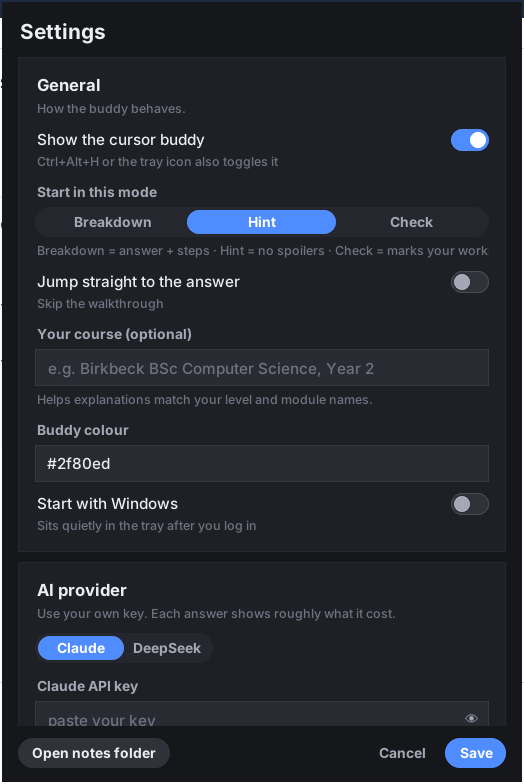
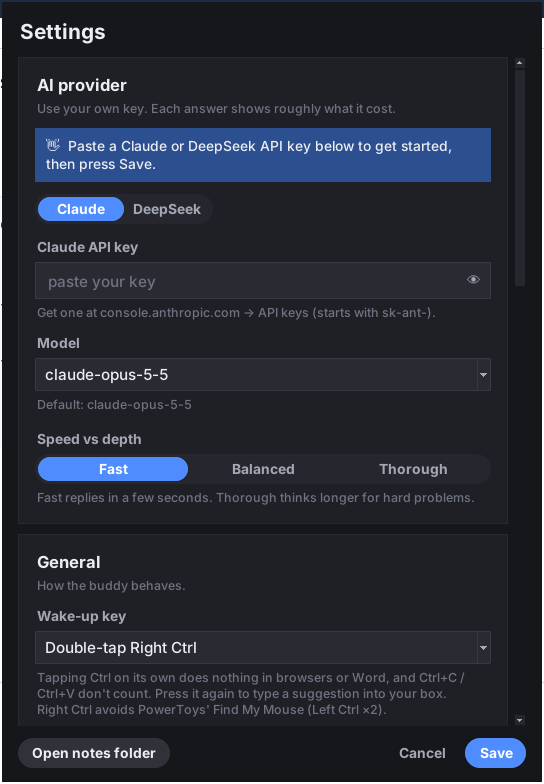
v0.3.1: wake with double-tap RIGHT Ctrl by default (Left Ctrl x2 is PowerToys Find My Mouse)
Double-tapping Left Ctrl triggered PowerToys' Find My Mouse spotlight, which
would also land in the buddy's screenshot. Default is now Right Ctrl x2;
'either Ctrl x2', 'Ctrl x3' and 'Right Ctrl x1' remain as options (Settings
dropdown + setup menu). Self-test checks Left Ctrl x2 does NOT wake it.

Also: setting hints wrap instead of being clipped, and PillButton measures
its text via its parent (it crashed if it was the first widget drawn with
its font).

Claude-Session: https://claude.ai/code/session_019WcccRRXX42dyH1bXt8cF2

diff --git a/moodleclicky/triggers.py b/moodleclicky/triggers.py
@@ -1,4 +1,6 @@
-"""Wake-up triggers that don't clash with anything: double-tap Ctrl (or tap Right Ctrl on its own).
+"""Wake-up triggers that don't clash with anything: double-tap Right Ctrl (default), either Ctrl, or one tap.
+
+Right Ctrl is the default because double-tapping *Left* Ctrl is PowerToys "Find My Mouse"'s shortcut.
 
 A Ctrl *tap* only counts when Ctrl is pressed and released on its own - so Ctrl+C, Ctrl+V, Ctrl+click etc.
 never trigger it. Two taps within `window` seconds = trigger. Pure logic here (DoubleTap) so it's unit
@@ -10,9 +12,11 @@ from __future__ import annotations
 import time
 from collections.abc import Callable
 
-TRIGGERS = ("double_ctrl", "right_ctrl", "hotkey")
+TRIGGERS = ("double_rctrl", "double_ctrl", "triple_ctrl", "right_ctrl", "hotkey")
 TRIGGER_LABELS = {
-    "double_ctrl": "Double-tap Ctrl",
+    "double_rctrl": "Double-tap Right Ctrl",
+    "double_ctrl": "Double-tap either Ctrl",
+    "triple_ctrl": "Triple-tap either Ctrl",
     "right_ctrl": "Tap Right Ctrl on its own",
     "hotkey": "Ctrl + Alt + Space (classic hotkey)",
 }
@@ -47,7 +51,8 @@ class DoubleTap:
         if not clean or self.paused:
             self._taps.clear()
             return
-        self._taps = [t for t in self._taps if now - t <= self.window] + [now]
+        span = self.window * max(1, self.taps_needed - 1)  # each gap may be up to `window`
+        self._taps = [t for t in self._taps if now - t <= span] + [now]
         if len(self._taps) >= self.taps_needed:
             self._taps.clear()
             self.fire()
@@ -59,15 +64,16 @@ class DoubleTap:
 
 
 class KeyTrigger:
-    """Global listener: mode 'double_ctrl' (either Ctrl, twice) or 'right_ctrl' (Right Ctrl, once)."""
+    """Global listener: 'double_rctrl' (Right Ctrl twice), 'double_ctrl' (either Ctrl twice) or
+    'right_ctrl' (Right Ctrl once)."""
 
     def __init__(self, mode: str, fire: Callable[[], None]):
         self.mode = mode
-        self.tap = DoubleTap(fire, taps=1 if mode == "right_ctrl" else 2)
+        self.tap = DoubleTap(fire, taps={"right_ctrl": 1, "triple_ctrl": 3}.get(mode, 2))
         self._listener = None
 
     def _is_watched(self, key, keyboard) -> bool:
-        if self.mode == "right_ctrl":
+        if self.mode in ("right_ctrl", "double_rctrl"):
             return key == keyboard.Key.ctrl_r
         return key in (keyboard.Key.ctrl, keyboard.Key.ctrl_l, keyboard.Key.ctrl_r)
 

diff --git a/moodleclicky/settings_ui.py b/moodleclicky/settings_ui.py
@@ -17,7 +17,7 @@ from moodleclicky.config import (
     get_api_key,
     set_api_key,
 )
-from moodleclicky.triggers import TRIGGERS
+from moodleclicky.triggers import TRIGGER_LABELS, TRIGGERS
 
 KEY_HINTS = {
     "anthropic": "Get one at console.anthropic.com → API keys (starts with sk-ant-).",
@@ -85,12 +85,12 @@ class SettingsWindow:
         # -- General
         g = t.Card(body, "General", "How the buddy behaves.")
         g.pack(fill="x", pady=(0, 10))
-        self.trigger = tk.StringVar(w, s.trigger)
-        t.form_row(g.body, "Wake-up key", lambda p: t.Segmented(
-            p, [("double_ctrl", "Double-tap Ctrl"), ("right_ctrl", "Right Ctrl"), ("hotkey", "Ctrl+Alt+Space")],
-            variable=self.trigger),
-            hint="Tapping Ctrl on its own does nothing in browsers or Word, so it never gets in the way. "
-                 "Ctrl+C / Ctrl+V don't count. Press it again to type a suggestion into your box.")
+        self.trigger = tk.StringVar(w, TRIGGER_LABELS.get(s.trigger, TRIGGER_LABELS["double_rctrl"]))
+        t.form_row(g.body, "Wake-up key", lambda p: t.combobox(
+            p, self.trigger, [TRIGGER_LABELS[k] for k in TRIGGERS], readonly=True),
+            hint="Tapping Ctrl on its own does nothing in browsers or Word, and Ctrl+C / Ctrl+V don't count. "
+                 "Press it again to type a suggestion into your box. Right Ctrl avoids PowerToys' Find My Mouse "
+                 "(Left Ctrl ×2).")
         self.instant = tk.BooleanVar(w, s.instant)
         t.Toggle(g.body, self.instant, "Look straight away", "Off = ask \"what are you stuck on?\" first").pack(
             fill="x", pady=(0, 10))
@@ -162,7 +162,7 @@ class SettingsWindow:
     def _save(self) -> None:
         s = self.settings
         s.buddy_visible = self.visible.get()
-        s.trigger = self.trigger.get() if self.trigger.get() in TRIGGERS else "double_ctrl"
+        s.trigger = {v: k for k, v in TRIGGER_LABELS.items()}.get(self.trigger.get(), "double_rctrl")
         s.instant = self.instant.get()
         label_to_mode = {v: k for k, v in MODE_LABELS.items()}
         s.mode = label_to_mode.get(self.mode.get(), "breakdown")

diff --git a/tests/test_core.py b/tests/test_core.py
@@ -321,3 +321,32 @@ def test_streaming_partials_and_type_text():
     assert seen and seen[0] == {"title": S["title"]}  # title arrives first, before the rest
     assert seen[-1]["type_text"] == "O(n^2)"
     assert len(seen) == len({json.dumps(x, sort_keys=True) for x in seen})  # only sent when something changed
+
+
+def test_trigger_modes_watch_the_right_keys():
+    from types import SimpleNamespace
+
+    from moodleclicky.triggers import KeyTrigger
+
+    kb = SimpleNamespace(Key=SimpleNamespace(ctrl="ctrl", ctrl_l="ctrl_l", ctrl_r="ctrl_r"))
+    rc = KeyTrigger("double_rctrl", lambda: None)
+    assert rc.tap.taps_needed == 2 and rc._is_watched("ctrl_r", kb)
+    assert not rc._is_watched("ctrl_l", kb) and not rc._is_watched("ctrl", kb)  # PowerToys Find My Mouse key
+    any_ctrl = KeyTrigger("double_ctrl", lambda: None)
+    assert all(any_ctrl._is_watched(k, kb) for k in ("ctrl", "ctrl_l", "ctrl_r"))
+    assert KeyTrigger("right_ctrl", lambda: None).tap.taps_needed == 1
+    assert KeyTrigger("triple_ctrl", lambda: None).tap.taps_needed == 3
+    assert Settings().trigger == "double_rctrl"
+
+
+def test_triple_tap():
+    from moodleclicky.triggers import DoubleTap
+
+    fired = []
+    clock = Clock()
+    d = DoubleTap(lambda: fired.append(1), taps=3, clock=clock)
+    tap(d, clock)
+    tap(d, clock)
+    assert fired == []  # two taps (PowerToys' shortcut) isn't enough
+    tap(d, clock)
+    assert fired == [1]

diff --git a/moodleclicky/theme.py b/moodleclicky/theme.py
@@ -328,6 +328,7 @@ class PillButton(tk.Canvas):
                  kind: str = "secondary", font=None, height: int | None = None, width: int | None = None,
                  padx: int = 14, radius: int | None = None, bg: str | None = None, tooltip: str = ""):
         self._bg = bg or _bg_of(parent)
+        self._measure_on = parent  # measure text via the parent: this canvas doesn't exist yet in __init__
         self._kind = kind
         self._text = text
         self._command = command
@@ -349,7 +350,7 @@ class PillButton(tk.Canvas):
     def _width(self) -> int:
         if self._fixed_w:
             return self._fixed_w
-        return measure(self, self._font, self._text) + 2 * self._padx
+        return measure(self._measure_on, self._font, self._text) + 2 * self._padx
 
     def _set(self, hover: bool | None = None, down: bool | None = None) -> None:
         if hover is not None:
@@ -648,7 +649,8 @@ def form_row(parent: tk.Misc, label: str, widget_factory: Callable[[tk.Frame], t
     w = widget_factory(row)
     w.pack(fill="x")
     if hint:
-        tk.Label(row, text=hint, bg=bg, fg=SUBTLE, font=f.tiny, anchor="w", justify="left").pack(fill="x",
+        tk.Label(row, text=hint, bg=bg, fg=SUBTLE, font=f.tiny, anchor="w", justify="left",
+                 wraplength=440).pack(fill="x",
                                                                                               pady=(3, 0))
     return w
 

diff --git a/moodleclicky/selftest.py b/moodleclicky/selftest.py
@@ -208,22 +208,26 @@ def check_keyboard(root, report: list[str]) -> None:
 
     kb = Controller()
     fired = []
-    trig = KeyTrigger("double_ctrl", lambda: fired.append(1))
+    trig = KeyTrigger("double_rctrl", lambda: fired.append(1))
     trig.start()
     time.sleep(0.5)
-    with kb.pressed(Key.ctrl):  # Ctrl+C must NOT trigger
+    def double_tap(key):
+        for _ in range(2):
+            kb.press(key)
+            time.sleep(0.05)
+            kb.release(key)
+            time.sleep(0.12)
+        time.sleep(0.6)
+
+    with kb.pressed(Key.ctrl_r):  # Right Ctrl+C must NOT trigger
         kb.press("c")
         kb.release("c")
     time.sleep(0.6)
-    for _ in range(2):
-        kb.press(Key.ctrl)
-        time.sleep(0.05)
-        kb.release(Key.ctrl)
-        time.sleep(0.12)
-    time.sleep(0.4)
+    double_tap(Key.ctrl_l)  # Left Ctrl x2 is PowerToys Find My Mouse - must NOT trigger
+    double_tap(Key.ctrl_r)  # Right Ctrl x2 = wake up
     trig.stop()
-    check(fired == [1], f"double-tap Ctrl fired {len(fired)} times (want 1)")
-    report.append("ok    double-tap Ctrl wakes the buddy (Ctrl+C doesn't)")
+    check(fired == [1], f"double-tap Right Ctrl fired {len(fired)} times (want 1)")
+    report.append("ok    double-tap Right Ctrl wakes the buddy (Left Ctrl x2 and Ctrl+C don't)")
 
     win = tk.Toplevel(root)
     win.title("MoodleClicky self-test box")

diff --git a/moodleclicky/config.py b/moodleclicky/config.py
@@ -44,7 +44,7 @@ class Settings:
     deepseek_model: str = "deepseek-flash"  # must be a vision-capable DeepSeek model
     effort: str = "low"  # low = fastest replies; medium/high think longer
     mode: str = "breakdown"
-    trigger: str = "double_ctrl"  # double_ctrl | right_ctrl | hotkey  (see triggers.py)
+    trigger: str = "double_rctrl"  # double_rctrl | double_ctrl | right_ctrl | hotkey  (see triggers.py)
     instant: bool = True  # look straight away; False = ask "what are you stuck on?" first
     hotkey_ask: str = "<ctrl>+<alt>+<space>"  # always opens the type-a-question prompt
     hotkey_toggle: str = "<ctrl>+<alt>+h"
@@ -82,8 +82,8 @@ class Settings:
             s.mode = "breakdown"
         if s.effort not in EFFORTS:
             s.effort = "low"
-        if s.trigger not in ("double_ctrl", "right_ctrl", "hotkey"):
-            s.trigger = "double_ctrl"
+        if s.trigger not in ("double_rctrl", "double_ctrl", "triple_ctrl", "right_ctrl", "hotkey"):
+            s.trigger = "double_rctrl"
         if s.provider not in PROVIDERS:
             s.provider = "anthropic"
         if s.whisper_model not in WHISPER_MODELS:

diff --git a/tests/ui_smoke.py b/tests/ui_smoke.py
@@ -126,7 +126,7 @@ def main(out=None):
     assert b.state == "showing", b.state  # never went through the "what are you stuck on?" prompt
     assert partials and partials[0].get("title"), partials
     assert b.type_box.winfo_ismapped() and "O(n^2)" in b.type_preview.cget("text")
-    assert "Ctrl Ctrl" in b.footer.cget("text")
+    assert "Right Ctrl ×2" in b.footer.cget("text")
 
     import moodleclicky.typer as typer
 

diff --git a/moodleclicky/app.py b/moodleclicky/app.py
@@ -337,7 +337,9 @@ class App:
 
 
 def trigger_hint(s: Settings) -> str:
-    return {"double_ctrl": "Ctrl Ctrl", "right_ctrl": "Right Ctrl"}.get(s.trigger, "Ctrl+Alt+Space")
+    return {"double_rctrl": "Right Ctrl ×2", "double_ctrl": "Ctrl ×2", "triple_ctrl": "Ctrl ×3",
+            "right_ctrl": "Right Ctrl"}.get(
+        s.trigger, "Ctrl+Alt+Space")
 
 
 def tray_image(color: str):

diff --git a/moodleclicky/__init__.py b/moodleclicky/__init__.py
@@ -1,4 +1,4 @@
 """MoodleClicky — a cursor study buddy that explains what's on your screen."""
 
-__version__ = "0.3.0"
+__version__ = "0.3.1"
 APP_NAME = "MoodleClicky"

diff --git a/README.md b/README.md
@@ -1,6 +1,6 @@
 # MoodleClicky
 
-**A study buddy that lives next to your mouse cursor.** Stuck on a Moodle question, a coursework task or an error in your code? **Double-tap Ctrl.** MoodleClicky looks at your screen, flies over to the right spot, and walks you through it one small step at a time in a Clippy-style pop-up. No chatbot wall of text, and no pressing Enter. If you're typing in a box, it suggests what goes there. **Double-tap Ctrl again** and it types it in for you.
+**A study buddy that lives next to your mouse cursor.** Stuck on a Moodle question, a coursework task or an error in your code? **Double-tap Right Ctrl.** MoodleClicky looks at your screen, flies over to the right spot, and walks you through it one small step at a time in a Clippy-style pop-up. No chatbot wall of text, and no pressing Enter. If you're typing in a box, it suggests what goes there. **Double-tap Right Ctrl again** and it types it in for you.
 
 ![MoodleClicky demo](docs/demo.gif)
 
@@ -42,8 +42,8 @@ Install **Python 3.11+** from [python.org](https://www.python.org/downloads/) (t
 
 | Keys | What it does |
 |---|---|
-| **Ctrl, Ctrl** (double-tap) | Look at what's under your mouse **right now** and explain it |
-| **Ctrl, Ctrl** again | Type the ✍ suggestion into the box you were typing in (Ctrl+Z undoes it) |
+| **Right Ctrl, Right Ctrl** (double-tap) | Look at what's under your mouse **right now** and explain it |
+| **Right Ctrl ×2** again | Type the ✍ suggestion into the box you were typing in (Ctrl+Z undoes it) |
 | **Ctrl + Alt + Space** | Type a question first ("why is this O(n²)?") |
 | **Ctrl + Alt + H** | Show or hide the cursor buddy |
 | **Ctrl + Alt + N** | Open the lecture / meeting notetaker |
@@ -51,7 +51,7 @@ Install **Python 3.11+** from [python.org](https://www.python.org/downloads/) (t
 | **← / →** | Previous / next step in the pop-up |
 | **Esc** | Close the pop-up |
 
-**Why double-tap Ctrl?** Tapping Ctrl on its own does nothing in browsers, Word or code editors, so it never gets in the way. Ctrl+C, Ctrl+V, Ctrl+click and holding Ctrl don't count. Prefer something else? Settings → **Wake-up key**: Right Ctrl, or the classic Ctrl+Alt+Space.
+**Why Right Ctrl?** Tapping Ctrl on its own does nothing in browsers, Word or code editors, so it never gets in the way. Ctrl+C, Ctrl+V, Ctrl+click and holding Ctrl don't count. It's the **Right** Ctrl because double-tapping *Left* Ctrl is PowerToys' **Find My Mouse** spotlight. Prefer something else? Settings → **Wake-up key**: either Ctrl ×2, Right Ctrl ×1, or the classic Ctrl+Alt+Space.
 
 The pop-up doesn't steal your keyboard. Your cursor stays in the box you were typing in, so you can keep going.
 
@@ -62,7 +62,7 @@ When you call the buddy while you're writing in a box (a Moodle answer, a forum 
 - the rest of your sentence
 - the next line(s) of code
 
-Double-tap Ctrl again, or click **Type it**, and it's pasted at your cursor. Your clipboard is put back afterwards. In **Hint** mode it only gives you a starter, never the full answer.
+Double-tap Right Ctrl again, or click **Type it**, and it's pasted at your cursor. Your clipboard is put back afterwards. In **Hint** mode it only gives you a starter, never the full answer.
 
 ### ⚡ Speed
 
@@ -138,7 +138,7 @@ hotkey ─► hide own windows ─► screenshot the monitor under the cursor (c
 | File | Job |
 |---|---|
 | `moodleclicky/app.py` | Wiring: hotkeys (pynput), tray icon (pystray), worker threads |
-| `moodleclicky/triggers.py` | Double-tap Ctrl / Right Ctrl wake-up key (ignores Ctrl+C etc.) |
+| `moodleclicky/triggers.py` | Double-tap Right Ctrl (or either Ctrl) wake-up key (ignores Ctrl+C etc.) |
 | `moodleclicky/typer.py` | Types a suggestion into the box you were in (refocus, paste, restore clipboard) |
 | `moodleclicky/brain.py` | Prompt, JSON schema, Claude and DeepSeek backends, cost estimate |
 | `moodleclicky/capture.py` | Screenshot of the right monitor; maps the AI's coordinates back to the screen |
